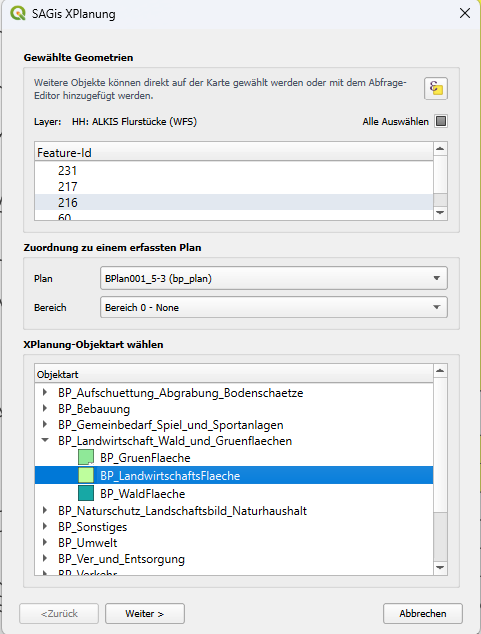
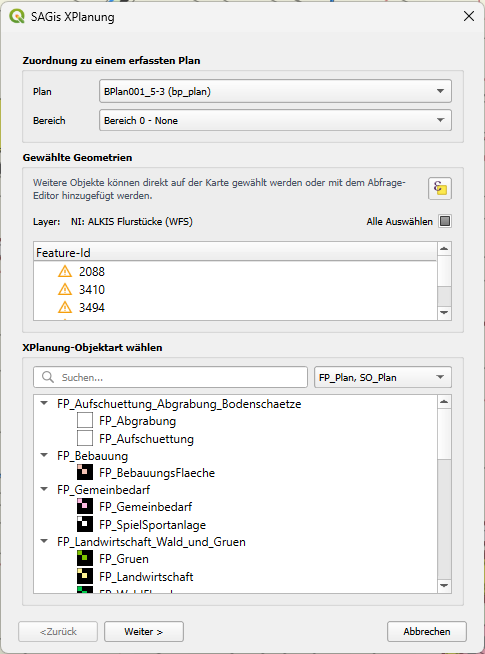
add docs
(cherry picked from commit b129f90b218c5a7f87e1b1ebcb91d481704ab9a5)

Changed region(s): [[0.0, 0.0, 1.0, 1.0], [0.9044, 0.7792, 0.9356, 0.8091]]

diff --git a/docs/docs/map-display.md b/docs/docs/map-display.md
@@ -1,7 +1,7 @@
 # Kartenanzeige
 
 SAGis XPlanung enthält eine Sammlung an Standard-Darstellungsvorschriften zur Visualisierung von Planwerken nach 
-den Vorlagen der Planzeichenverordnung. Eine Anpassung der individuelle Stile ist
+den Vorlagen der Planzeichenverordnung. Eine Anpassung der individuellen Stile ist
 in den [Einstellungen](settings/symbology.md) möglich.
 
 !!! tip
@@ -17,51 +17,166 @@ Zur Erweiterung der Darstellungsinformationen realisiert der Standard XPlanung d
 Diese unterstützen oder ändern die Standard-Darstellung von Planinhalten, haben jedoch selbst keine fachliche Bedeutung.
 Präsentationobjekte können graphische Annotationen, wie textliche Beschriftungen oder zusätzliche Symbole repräsentieren.
 
+### Allgemein
+
+In XPlanung werden Präsentationsobjekte für die grafische Darstellung im Plan verwendet, ohne selbst inhaltliche 
+Planwerte zu repräsentieren. Man unterscheidet freie und gebundene Präsentationsobjekte. 
+
+- Freie Präsentationsobjekte haben keinen Bezug zu einem Fachobjekt (z.B. ein bloßer Annotations-Text) und dienen nur 
+der grafischen Beschriftung
+- Gebundene Präsentationsobjekte sind über die Relation <code>&lt;xplan:dientZurDarstellungVon&gt;</code> mit genau einem 
+Fachobjekt verknüpft und zeigen Attributwerte dieses Fachobjekts im Plan an
+
+Bei gebundenen Präsentationsobjekten bestimmt das Attribut <code>&lt;xplan:art&gt;</code> den angezeigten Inhalt. 
+In diesem Feld wird ein XPath-Ausdruck eingetragen, der auf ein oder mehrere Attribute des zugehörigen Fachobjekts referenziert. 
+Der Ausdruck ist relativ zum Fachobjekt und verwendet in der Regel den Namensraum-Präfix <code>&lt;xplan:&gt;</code> vor jedem Elementnamen.
+Praktisch wird also durch die Angabe <code>&lt;xplan:art&gt;xplan:text&lt;/xplan:art&gt;</code> angeben, den Inhalt des Attributs <i>text</i> zu visualisieren.
+
+**Beispiel 1**: Darstellung von Einzelattributen 
+
+```text
+BP_Plan
+├── BP_BaugebietsTeilFlaeche
+│   ├── allgArtDerBaulNutzung: WohnBauflaeche
+│   ├── besondereArtDerBaulNutzung: ReinesWohngebiet
+│   └── XP_PPO
+│       ├── art: {==xplan:allgArtDerBaulNutzung==}
+│       └── art: {==xplan:besondereArtDerBaulNutzung==}
+└── BP_GruenFlaeche
+    ├── zweckbestimmung: Kleingarten
+    └── XP_PPO
+        └── art: {==xplan:zweckbestimmung==}
+```
+**Bedeutung**: Darstellung zweier punktförmiger Präsentationsobjekte:
+
+<div class="grid" markdown>
+<div markdown>
+- Visualisierung der Inhalte aus Attributen *allgArtDerBaulNutzung* und *besondereArtDerBaulNutzung* auf einem Objekt `BP_BaugebietsTeilFlaeche`
+</div>
+<div markdown>
+   - Visualisierung der Inhalte aus Attribut *zweckbestimmung* auf einem Objekt `BP_GruenFlaeche`
+</div>
+<figure markdown="span">
+     ![Präsentationsobjekt 1](assets/pres-object2.png){: style="width: 100%; height: 150px; background-size: cover;"}
+ </figure>
+ <figure markdown="span">
+     ![Präsentationsobjekt 2](assets/pres-object1.png){: style="width: 100%; height: 150px; background-size: cover;"}
+ </figure>
+</div>
+
+**Beispiel 2**: Darstellung von Attributen mit Mehrfachauswahl
+
+```text
+FP_Plan
+└── FP_Gemeinbedarf
+    ├── zweckbestimmung: Sport, Schule
+    ├── XP_PPO
+    │   └── art: {==xplan:zweckbestimmung[1]==}
+    └── XP_PPO
+        └── art: {==xplan:zweckbestimmung[2]==}
+```
+**Bedeutung**: Darstellung von zwei punktförmigen Präsentationsobjekten auf einem einzelnen Fachobjekt aus der Mehrfachauswahl im Attribut *zweckbestimmung*
+
+<figure markdown="span">
+     ![Präsentationsobjekt 3](assets/pres-object3.png){: style="width: 100%; height: 150px; background-size: cover;"}
+</figure>
+
+!!! warning "Index bei Mehrfachauswahl"
+   
+    Der Index im XPath-Ausdruck gibt an, welcher Wert bei Attributen mit Mehrfachauswahl visualisiert werden soll.
+    In Version 5.x muss der Index auch im Attribut *index* eingetragen werden. Hier muss weiterhin eine 0-basierte Zählweise
+    verwendet werden, sodass der Index 0 auf den ersten Wert verweist, der Index 1 auf den zweiten Wert, usw.
+
+
+### Neues Präsentationsobjekt anlegen
+
+1. Das Werkzeug **Planinhalte konfigurieren / abfragen** aus der XPlanung-Werkzeugleiste wählen. ++alt+q++
+2. Auf das XPlan-Objekt in der Karte klicken, zu dem das Präsentationsobjekt hinzugefügt werden soll
+3. Im Kontextmenü das entsprechende Objekt finden und die Option *Präsentationsobjekt hinzufügen* wählen
+
+    <figure markdown="span">
+        ![Neuen Planinhalt hinzufügen](assets/add-pres-object.png)
+    </figure>
+
+4. Im Dialog die Art des Präsentationsobjekts auswählen, die Position/Platzierung definieren und den Inhalt des 
+   neuen Präsentationsobjekts konfigurieren
+
+    <figure markdown="span">
+        ![Neuen Planinhalt hinzufügen](assets/add-pres-object-dialog.png)
+    </figure>
+
+<table markdown="span">
+   <tr>
+      <th>Art des Präsentationsobjekts</th>
+      <td>
+         <ul>
+            <li>
+               <i>Symbol</i>: <code>XP_PPO</code>, Objektklasse für punktförmige Symbole
+            </li>
+            <li>
+               <i>Text</i>: <code>XP_PTO</code>, Objektklasse für Schriftinhalte
+            </li>
+            <li>
+               <i>Nutzungsschablone</i>: <code>XP_Nutzungsschablone</code>, Objektklasse für Baunutzungsschablonen. 
+               (Objektklasse kann nur als Präsentationsobjekt für die Darstellung eines Objekts vom Typ 
+               <code>BP_BaugebietsTeilFlaeche</code> verwendet werden)
+            </li>
+         </ul>
+      </td>
+   </tr>
+   <tr>
+      <th>Position</th>
+      <td>
+         Das Präsentationsobjekt wird standardmäßig an der Position des Mauscursors bei Aufruf des Dialogs platziert.
+         Alternativ kann die Position verändert werden:
+         <ul>
+            <li>
+               <i>Auf Mittelpunkt setzen</i>: Position wird auf den Mittelpunkt des Objekts festgelegt. Die Platzierung erfolgt dabei immer innerhalb der Grenzen des Objekts.
+            </li>
+            <li>
+               <i>Auf Karte wählen</i>: Nach Auswahl des Werkzeugs kann auf der Karte eine neue Position festgelegt werden
+            </li>
+         </ul>
+      </td>
+   </tr>
+   <tr>
+      <th>Inhalt/Darstellung</th>
+      <td>
+         Der Inhalt des Präsentationsobjekts wird über die Konfiguration eines XPath-Ausdrucks definiert. Damit das 
+         Präsentationsobjekt auf der Karte dargestellt werden kann muss mindesteins ein XPath hinterlegt sein.
+      </td>
+   </tr>
+</table>
+
 ### Nutzungschablone
 
 Ein typisches Präsentationsobjekt ist die Nutzungschablone.  Die Tabellenform der Nutzungschablone gibt einen 
 einfachen Überblick auf die wichtigsten Festsetzungen einer Baufläche. 
-Die Nutzungsschablone kann für alle Bauflächen innerhalb eines Bebauungsplans aktiviert werden 
+Die Nutzungsschablone kann für alle Bauflächen innerhalb eines Bebauungsplans angelegt werden 
 (Objektklasse <code>BP_BaugebietsTeilFlaeche</code>). Die angezeigten Daten der Tabelle werden aus den Sachdaten des
-entsprechenden XPlan-Objekts verwendet.
+referenzierten XPlan-Fachobjekts verwendet.
 <figure markdown="span">
     ![Beispiel Nutzungschablone](assets/template-example.png)
 </figure>
 
 
-<div class="procedure">
-    <h4>Nutzungsschablone anzeigen</h4>
+<div class="procedure" markdown="span">
+    <h4>Nutzungsschablone anlegen</h4>
     <ul>
         <li>
-            Im Objektbaum das Kontextmenü eines Objekts vom Typ <code>BP_BaugebietsTeilFlaeche</code> wählen und 
-            mit Menüoption <i>Nutzungsschablone anzeigen</i> auf der Karte ein- oder ausblenden.
+            Siehe [Neues Präsentationsobjekt anlegen](#neues-prasentationsobjekt-anlegen): Art des Präsentationsobjekt
+            als *Nutzungsschablone* festlegen.
         </li>
-        <li>
-            Mit Option <i>Nutzungsschablone bearbeiten</i> können die angezeigten Inhalte der Nutzungsschablone angepasst
-            werden
-        </li>
-        <figure>
-            <img src="assets/show-template.png" alt="Nutzungschablone Aktionen"/>
-        </figure>
-    </ul>
 </div>
 
-<div class="procedure" id="nutzungschablone-edit">
+<div class="procedure" id="nutzungschablone-edit" markdown="span">
     <h4>Nutzungsschablone anpassen</h4>
     <ul>
         <li>
-            Im Objektbaum das Kontextmenü eines Objekts vom Typ <code>BP_BaugebietsTeilFlaeche</code> wählen und 
-            mit Menüoption <i>Nutzungsschablone bearbeiten</i> den Dialog zum Bearbeiten der Nutzungsschablone öffnen.
+            Über den [Objektbaum](elements/plan-details.md#der-objektbaum) die Attribut-Ansicht eines Objekts vom Typ `XP_Nutzungsschablone` aufrufen.
         </li>
-        <li>
-            Alternativ: Mit dem XPlan-Werkzeug eine Nutzungschablone auf der Karte auswählen. Im Kontextmenü des Werkzeug
-            findet sich ebenfalls die Option <i>Nutzungsschablone bearbeiten</i>
-        </li>
-        <figure>
-            <img src="assets/edit-template.png" alt="Nutzungschablone Kartenwerkzeug"/>
-        </figure>
     </ul>
-    Im Dialog <i>Nutzungsschablone bearbeiten</i> besteht die Möglichkeit die Form und Inhalte anzupassen:
+    Im Sachdatendialog besteht die Möglichkeit die Form und Inhalte der Nutzungschablone anzupassen:
     <table markdown="span">
         <tr>
             <th>Form</th>
@@ -85,11 +200,6 @@ entsprechenden XPlan-Objekts verwendet.
                     <li><b>Grundfläche / Geschossfläche</b> (Punkt 2.2+2.6 PlanZV)</li>
                 </ul>
             </td>
-        </tr>
-        <tr>
-            <th>Allgemeine Darstellungsoptionen</th>
-            <td>Mit dem Schieberegler kann die Größe der Kartendarstellung angepasst werden. Die Auswahl 
-                <i>Drehwinkel</i> bestimmt die Ausrichtung auf der Karte</td>
         </tr>
     </table>
     <figure>

diff --git a/docs/docs/add-plancontent.md b/docs/docs/add-plancontent.md
@@ -33,24 +33,30 @@ enthält. Dies kann ein Layer aus beliebiger Datenquelle oder auch ein Temporär
 
     <table>
         <tr>
-            <th>Gewählte Geometrien</th>
-            <td>Diese Sektion erlaubt es, weitere Geometrien auf der Karte anzuwählen, die ebenfalls als gleiche
-                Objektart mit gleichen Sachdaten erfasst werden soll. Durch das Anwählen der Checkbox <b>Alle Auswählen</b>
-                können alle Objekte im gewählten Layer markiert werden. Über das Abfrage-Symbol kann der Abfrageeditor 
-                vom QGIS geöffnet werden. Dies ermöglicht das Auswählen von Objekten nach bestimmten Filter-Abfragen.
-            </td>
-        </tr>
-        <tr>
             <th>Zuordnung zu einem Plan</th>
             <td>Auswahl eines Planwerks aus der Datenbank, zu dem die neu konfigurierten Planinhalte zugeordnet werden 
                 sollen. 
             </td>
         </tr>
         <tr>
+            <th>Gewählte Geometrien</th>
+            <td>Diese Sektion erlaubt es, weitere Geometrien auf der Karte anzuwählen, die ebenfalls als gleiche
+                Objektart mit gleichen Sachdaten erfasst werden soll. Die Auswahl der Geometrien kann über die
+                folgenden Optionen stattfinden:
+               <ul>
+                  <li>Auswahl von Einzelobjekten durch Klick in die Karte</li>
+                  <li>Checkbox <b>Alle Auswählen</b>: Alle Objekte des gewählten Layers werden zur Auswahl hinzugefügt</li>
+                  <li><b>QGIS Abfrageeditor</b>: Auswählen von Objekten nach bestimmten Filter-Abfragen über QGIS-Ausdrücke</li>
+               </ul>
+            </td>
+        </tr>
+        <tr>
             <th>XPlanung-Objektart wählen</th>
             <td>Auswahl einer Objektart aus dem XPlanung-Schema, die den gewählten Geometrien zugeordnet werden.
                 Die verfügbaren Objekte sind abgestimmt auf den Geometrietyp (Punkt, Linie, Polygon) des gewählten
-                Layers und die Art des bei Sektion <b>Zuordnung zu einem Plan</b> gewählten Planwerks.
+                Layers und die Art des bei Sektion <b>Zuordnung zu einem Plan</b> gewählten Planwerks.  <br><br>
+                Mit dem Auswahlmenü neben dem Suchfeld, kann die Liste der Objektklassen mit weiteren Objekten aus
+                anderen XPlan-Fachbereichen erweitert werden.
             </td>
         </tr>
     </table>
@@ -60,9 +66,15 @@ enthält. Dies kann ein Layer aus beliebiger Datenquelle oder auch ein Temporär
         Für größere Layer muss zunächst ein Ausschnitt erstellt werden (Objekte mit QGIS Werkzeugen wählen, 
         dann mit Funktion <b>gewählte Objekte exportieren</b> neu speichern)
 
-    <figure markdown="span">
-        ![Neuen Planinhalt hinzufügen](assets/config-plan-content.png)
-    </figure>
+    !!! warning "Geometrievalidierung"
+      
+        Bei der Auswahl von Geometrien findet eine Prüfung auf Gültigkeit und Lage innerhalb des gewählten Bereichs statt.
+        Sobald eine Geometrie mit einer Warnung versehen ist, wird diese bei einer Geometrieprüfung einen Fehler hervorrufen.
+        Siehe [Geometrieprüfung](elements/plan-details.md#geometrieprufung) für Anforderungen an geometrische Korrektheit.
+
+       <figure markdown="span">
+           ![Neuen Planinhalt hinzufügen](assets/config-plan-content.png)
+       </figure>
     
 4. Mit dem Button <b>Weiter</b> in das Sachdaten-Formular der gewählten Objektart wechseln
 5. Nach Eingabe der Sachdaten für die neu zu erstellenden Objekte, mit dem Button <b>Speichern</b> 

diff --git a/docs/docs/elements/plan-details.md b/docs/docs/elements/plan-details.md
@@ -201,18 +201,4 @@ ausgeführt werden.
          </ul>
       </td>
    </tr>
-   <tr markdown="span">
-      <th><code>BP_BaugebietsTeilFlaeche</code></th>
-      <td>
-         <ul>
-            <li>
-               <i>Nutzungsschablone anzeigen</i>: Gibt an, ob für die diese Fläche eine Nutzungsschablone auf der Karte
-               angezeigt werden soll
-            </li>
-            <li>
-               <i>[Nutzungsschablone bearbeiten](../map-display.md#nutzungschablone-edit)</i>: Öffnet einen Dialog zur Konfiguration der Nutzungschablone
-            </li>
-         </ul>
-      </td>
-   </tr>
 </table>

diff --git a/docs/docs/elements/plan-overview.md b/docs/docs/elements/plan-overview.md
@@ -68,5 +68,5 @@ weiteren Seiten navigiert werden, wenn mehr als die initial geladenen Pläne in 
 
 Über das Zahnradsymbol kann der Dialog _Planübersicht_ konfiguriert werden.
 Im Abschnitt **Allgemein** besteht die Möglichkeit, die Anzahl der Pläne pro Seite festzulegen.
-Im Abschnitt **Tabllenspalten anordnene** können einzelne Spalten ausgeblendet und per drag-and-drop die Anzeigereihenfolge
+Im Abschnitt **Tabellenspalten anordnen** können einzelne Spalten ausgeblendet und per drag-and-drop die Anzeigereihenfolge
 der XPlan-Attribute angepasst werden.
